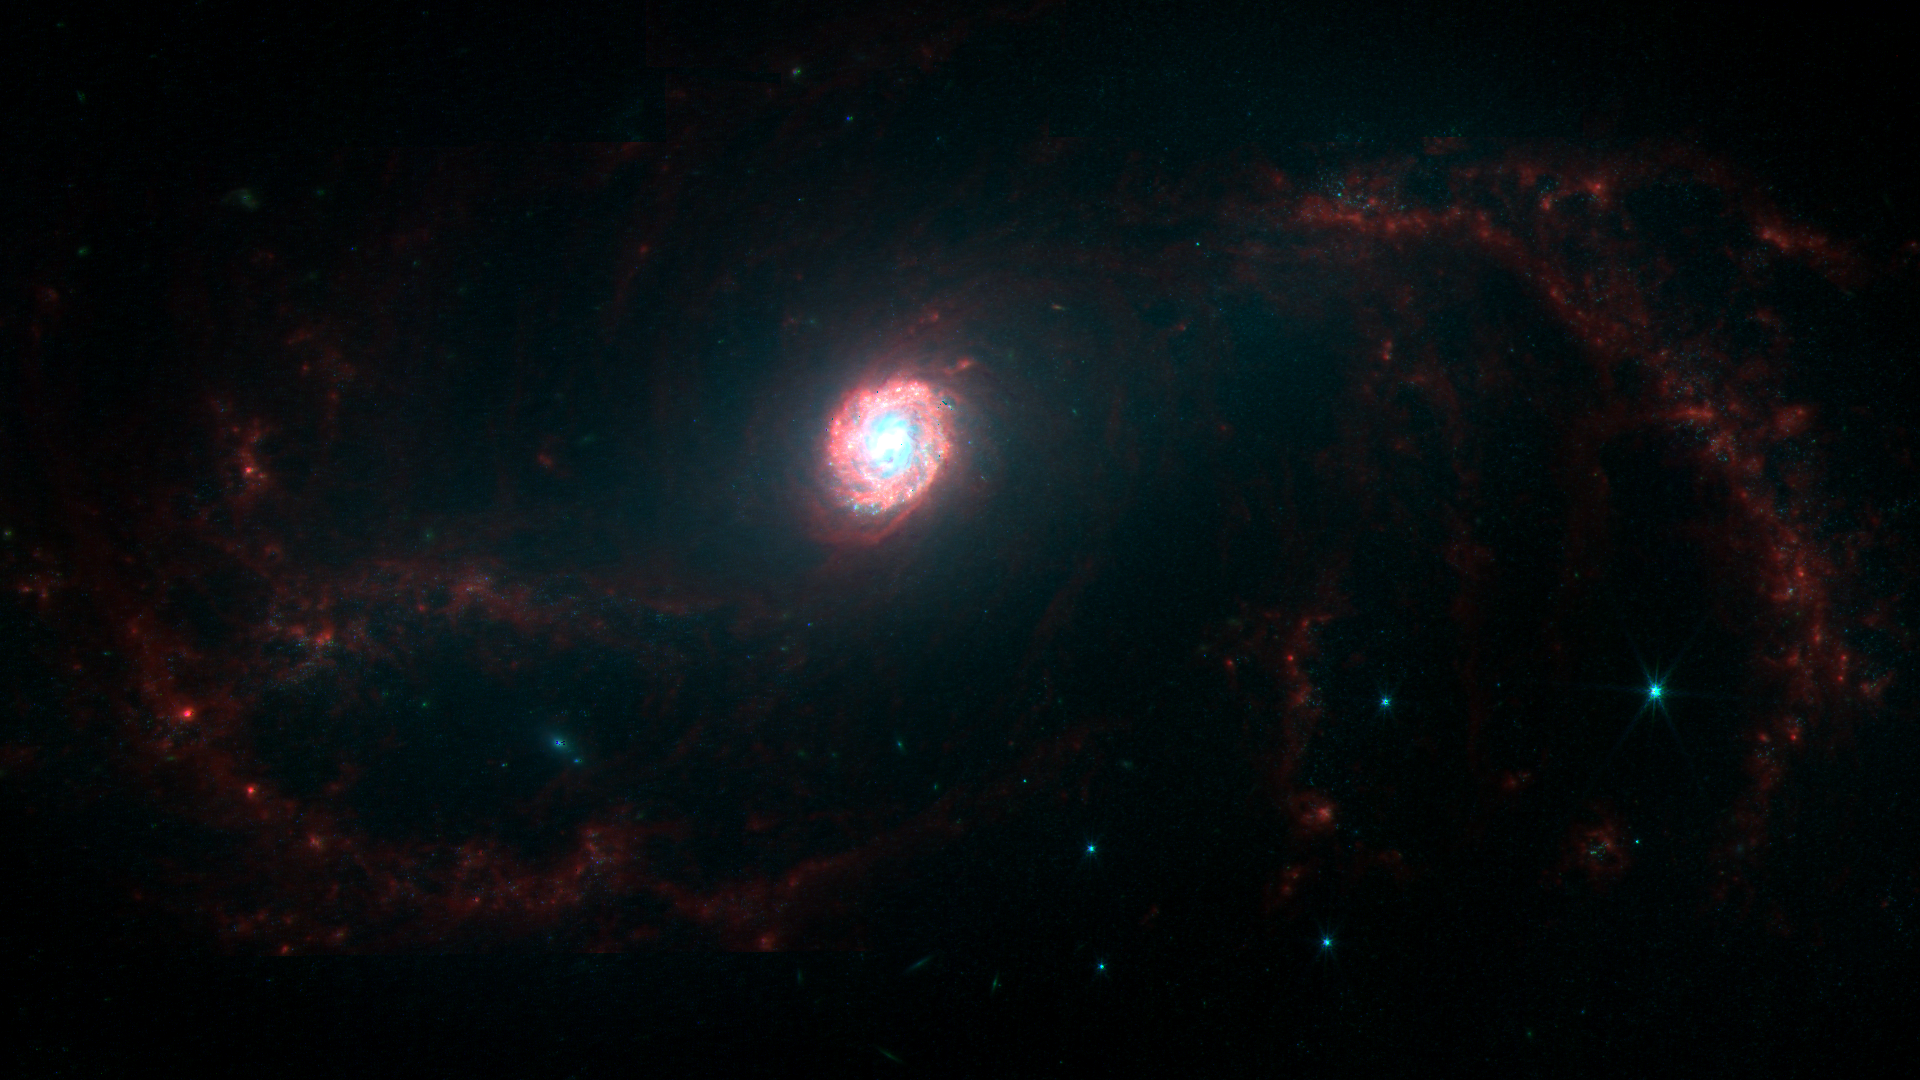
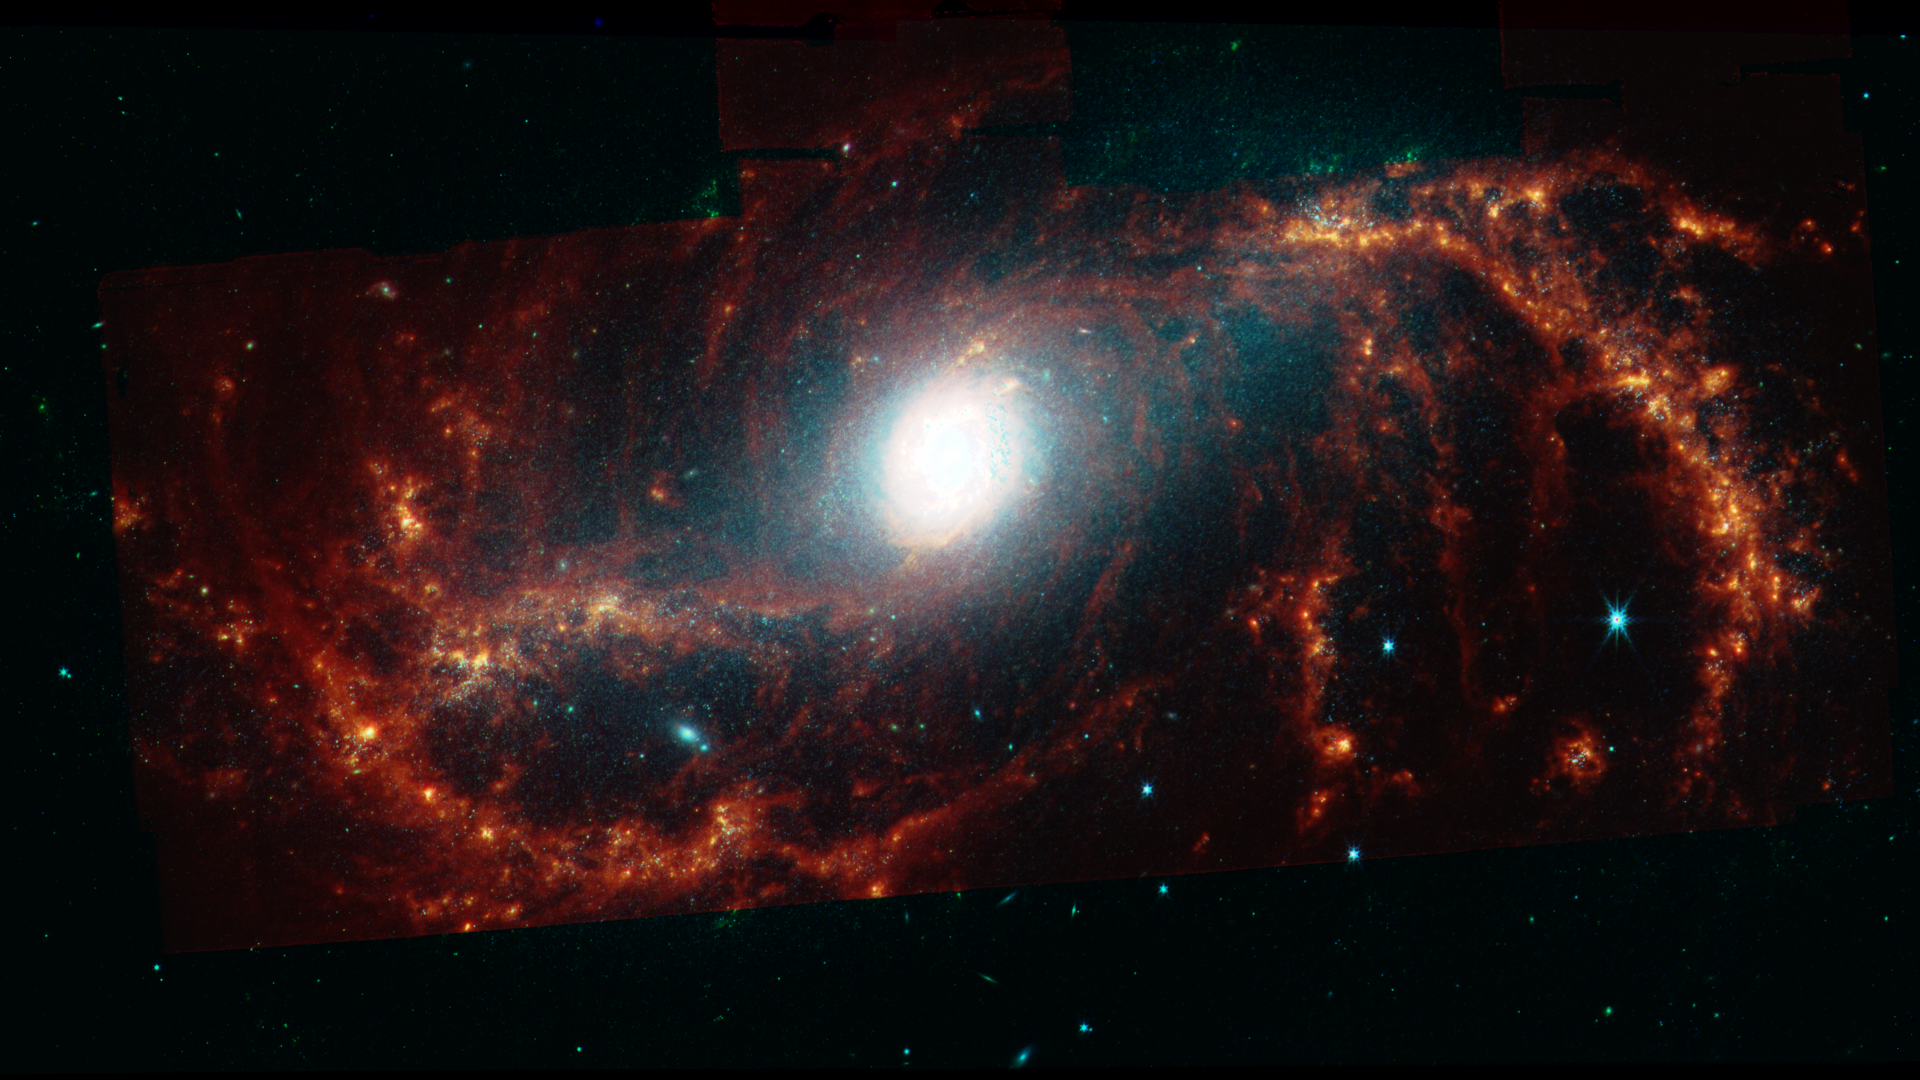
auto plot

diff --git a/astro_utils.py b/astro_utils.py
@@ -16,6 +16,9 @@ from astroquery.mast import Observations
 # from skimage.morphology import disk
 from astropy.wcs import WCS
 from astropy.nddata import Cutout2D
+from bot_grabber import level_adjust
+import pickle
+from skimage import transform
 # root = __file__[:-14]
 # root = list_files.__code__.co_filename[:-14]
 root = os.environ['HOME']+'/astro/'
@@ -471,24 +474,6 @@ def crop_fits(hdu1, center, sizes):
     return hdu1, pos, pix
 
 
-
-if __name__ == '__main__':
-    path = list_files('/home/innereye/JWST/Ori/', search='*.fits')
-    # hdu = fits.open(path[8])
-    hdu = fits.open(path[8])
-    # img = hdu[1].data[3800:5000, 5600:7000]
-    img = hdu[1].data[1800:2400, 2800:3800]
-    xy = hole_xy(img)
-    size = hole_size(img, xy, plot=True)
-    filled = hole_circle_fill(img, xy, size)
-
-    fix = fill_craters(img, method='gaus')
-    # fix = fill_holes(img, pad=1)
-    plt.figure();plt.imshow(img[200:400,100:300]);plt.show(block=False)
-    plt.figure();plt.imshow(fix[200:400,100:300]);plt.show(block=False)
-    print('tada')
-
-
 def movmean(data, win):
     #  smooth data with a moving average. win should be an odd number of samples.
     #  data is np.ndarray with samples by channels shape
@@ -514,3 +499,174 @@ def movmean(data, win):
         else:
             smooth[:, iChannel] = sm
     return smooth
+
+
+def auto_plot(folder='ngc1672', exp='*_i2d.fits', method='rrgggbb', pow=[1, 1, 1], pkl=True, png=False, resize=False,
+              core=False, factor=4):
+    # TODO: clean small holes fast without conv, remove red background
+    if not os.path.isdir(folder):
+        try:
+            os.chdir('/home/innereye/JWST/')
+            if not os.path.isdir(folder):
+                raise Exception('cannot find '+folder)
+        except:
+            raise Exception('cannot find ' + folder)
+
+    path = list_files(os.getcwd()+'/'+folder, exp)
+    filt = filt_num(path)
+    order = np.argsort(filt)
+    path = np.asarray(path)[order]
+
+    def make_rgb(prc=0):
+        rgb = np.zeros((layers.shape[0], layers.shape[1], 3), float)
+        for ll in range(3):
+            lay = np.mean(layers[:, :, iii[ll]], axis=2)
+            lay = lay ** pow[ll] * 255
+            rgb[:, :, ll] = lay
+        if prc > 0:  # subtract 1 percentile to remove red after **0.5
+            vec = rgb[:, :, 0].copy().flatten()
+            vec[vec == 0] = np.nan
+            rgb[:, :, 0] = rgb[:, :, 0] - np.nanpercentile(vec, 1)
+            rgb[rgb < 0] = 0
+            rgb[:, :, 0] = rgb[:, :, 0] / np.nanmax(rgb[:, :, 0]) * 255
+        rgb = rgb.astype('uint8')
+        return rgb
+
+    pkl_name = folder + '.pkl'
+    if os.path.isfile(pkl_name) and pkl:
+        layers = np.load(pkl_name, allow_pickle=True)
+    else:
+        for ii in range(len(path)):
+            if ii == 0:
+                hdu0 = fits.open(path[ii])
+                img = hdu0[1].data
+                if resize:# make rescale size for wallpaper 1920 x 1080
+                    rat = np.max(img.shape)/np.min(img.shape)
+                    if rat*9 > 16:
+                        h = 1080
+                        w = int(np.ceil(h*rat))
+                    else:
+                        w = 1920
+                        h = int(np.ceil(w*(1/rat)))
+                    if img.shape[0] > img.shape[1]:
+                        wh = [w, h]
+                    else:
+                        wh = [h, w]  # rotate later
+                    img = transform.resize(img, wh)
+                layers = np.zeros((img.shape[0], img.shape[1], len(path)))
+                hdr0 = hdu0[1].header
+                hdu0.close()
+            else:
+                hdu = fits.open(path[ii])
+                img, _ = reproject_interp(hdu[1], hdr0)
+                if resize:
+                    img = transform.resize(img, wh)
+            layers[:, :, ii] = img
+        if pkl:
+            with open(pkl_name, 'wb') as f:
+                pickle.dump(layers, f)
+    if core:
+        parts = 2
+        upix = np.array(layers.shape[:2])/25
+        degrade_shape = np.ceil(upix).astype('int')
+        max_xy = np.zeros((layers.shape[2], 2))
+        for lay in range(layers.shape[2]):
+            dgd = transform.resize(layers[:,:,lay], degrade_shape)
+            max_xy[lay,:] = np.unravel_index(np.nanargmax(dgd), degrade_shape)
+        max_xy = np.mean(max_xy, axis=0) * 25.5
+        max_xy = max_xy.astype(int)
+        half = int(np.min(upix)*parts)
+        layers = layers[max_xy[0] - half:max_xy[0] + half, max_xy[1] - half:max_xy[1] + half, :]
+        core_str = '_core'
+    else:
+        core_str = ''
+    for lay in range(layers.shape[2]):
+        tmp = layers[:, :, lay].copy()
+        mask = np.isnan(tmp)
+        tmp[mask] = 0
+        tmp = level_adjust(tmp, factor=factor)
+        tmp[mask] = np.nan
+        layers[:, :, lay] = tmp
+    if method == 'rrgggbb':
+        ncol = np.floor(layers.shape[-1] / 3)
+        ib = np.arange(0, ncol).astype(int)
+        ir = np.arange(layers.shape[-1] - ncol, layers.shape[-1]).astype(int)
+        ig = np.arange(ib[-1] + 1, ir[0]).astype(int)
+        iii = [ir, ig, ib]
+        rgb = make_rgb()
+        plt.figure()
+        plt.imshow(rgb)
+        plt.show()
+    elif method == 'mnn':  # Miri Nircam Nircam
+        ismiri = ['miri' in x for x in path]
+        ir = np.where(ismiri)[0]
+        inircam = np.where(~np.asarray(ismiri))[0]
+        nb = np.ceil(len(inircam)/2)
+        ib = np.arange(0, nb).astype(int)
+        ig = np.arange(ib[-1] + 1, ir[0]).astype(int)
+        iii = [ir, ig, ib]
+        rgb = make_rgb(prc=1)
+        plt.figure()
+        plt.imshow(rgb)
+        plt.show(block=False)
+    if png:
+        if type(png) == str:
+            png_name = png
+        else:
+            png_name = folder+core_str+'.png'
+        plt.imsave(png_name, rgb, origin='lower')
+if __name__ == '__main__':
+    # auto_plot('ngc3256', '*w_i2d.fits', method='mnn')
+    print('start')
+    auto_plot('ngc1512', '*_i2d.fits', png=True, pow=[0.5, 1, 1], resize=True)
+    auto_plot('ngc1672', '*_i2d.fits', png='core1.png', pow=[1, 1, 1], core=True)
+    auto_plot('ngc1672', '*_i2d.fits', png='core05.png', pow=[0.5, 1, 1], core=True)
+    auto_plot('ngc1672', '*_i2d.fits', png='red_sqrt.png', method='mnn', pow=[0.5, 1, 1], pkl=True, factor=2)
+    # auto_plot('ngc1672', '*_i2d.fits', png=False)
+    print('tada')
+
+# total = np.zeros(layers.shape[:2])
+# c = 0
+# b = []
+# for ii in range(layers.shape[-1]):  # range(layers.shape[2]):
+#     c += 1
+#     img = layers[:, :, ii]
+#     if b == []:
+#         b = img
+#     total += img
+# r = img
+# total = total / c
+#
+# rgbt = np.zeros((total.shape[1], total.shape[0], 3))
+# rgbt[..., 0] = r.T * 255
+# rgbt[..., 1] = total.T * 255  # *3-r-b
+# rgbt[..., 2] = b.T * 255
+#
+# rgbt = rgbt.astype('uint8')
+# # rgbt = rgbt[margins:-margins, margins:-margins,:]
+# plt.figure()
+# plt.imshow(rgbt)
+# plt.show()
+#
+#
+#
+# ncol = np.floor(layers.shape[-1] / 3)
+# ib = np.arange(0, ncol).astype(int)
+# ir = np.arange(layers.shape[-1] - ncol, layers.shape[-1]).astype(int)
+# ig = np.arange(ib[-1] + 1, ir[0]).astype(int)
+# iii = [ir, ig, ib]
+# rgbt = np.zeros((layers.shape[1], layers.shape[0], 3))
+# for ll in range(3):
+#     lay = np.zeros((layers.shape[0], layers.shape[1]))
+#     for mm in range(layers.shape[0]):
+#         for nn in range(layers.shape[1]):
+#             lay[mm, nn] = np.nanmean(layers[mm, nn, iii[ll]])
+#     lay = lay * 255
+#     rgbt[:, :, ll] = lay.T
+# rgbt = rgbt.astype('uint8')
+# plt.figure()
+# plt.imshow(rgbt)
+# plt.show()
+# # plt.imsave('right_finger_tot.png', np.flipud(np.fliplr(rgbt)), origin='lower')
+#
+#

diff --git a/ngc1433.py b/ngc1433.py
@@ -1,0 +1,107 @@
+from astro_utils import *
+from astro_fill_holes import *
+from bot_grabber import level_adjust
+import os
+
+#TODO: clean small holes fast without conv, remove red background
+
+os.chdir('/home/innereye/JWST/ngc1433')
+path = list_files('/home/innereye/JWST/ngc1512/', '*_i2d.fits')
+filt = filt_num(path)
+order = np.argsort(filt)
+path = np.asarray(path)[order]
+# miri
+# miri = path[4:]
+margins = 100
+# center = [770, 1000]
+# size = [int(1920*1.5), int(1080*1.5)] # a narrow image
+
+# plt.figure()
+for ii in range(len(path)):
+    if ii == 0:
+
+        hdu0 = fits.open(path[ii])
+        img = hdu0[1].data
+        layers = np.zeros((img.shape[0], img.shape[1], len(path)))
+        # coord = [2150, 4000]
+        # ref, ref_pos, ref_pix = crop_fits(orig, coord, [], [], crop=False)
+        # img = hole_conv_fill(img, n_pixels_around=None, ringsize=10, clean_below=0)
+        img = level_adjust(img)
+        hdr0 = hdu0[1].header
+        hdu0.close()
+    else:
+        hdu = fits.open(path[ii])
+        # wcs = WCS(hdu[1].header)
+        # pix = wcs.wcs_world2pix(ref_pos, 0)
+        # pix = np.round(np.asarray(pix))
+        # sz = 2 * (pix[1, :] - pix[0, :])
+        # hdu[1], _, _ = crop_fits(hdu[1], pix[1, :], sz)
+        img = hdu[1].data
+        # img = hole_conv_fill(img, n_pixels_around=None, ringsize=10, clean_below=0)
+        img = level_adjust(img)
+        hdu[1].data = img
+        img, _ = reproject_interp(hdu[1], hdr0)
+    # plt.subplot(3, 3, ii+1)
+    # plt.imshow(img)
+    layers[:, :, ii] = img
+# plt.show(block=False)
+
+total = np.zeros(layers.shape[:2])
+c = 0
+b = []
+for ii in range(layers.shape[-1]):  # range(layers.shape[2]):
+    c += 1
+    img = layers[:, :, ii]
+    if b == []:
+        b = img
+    total += img
+r = img
+total = total / c
+
+rgbt = np.zeros((total.shape[1], total.shape[0], 3))
+rgbt[..., 0] = r.T * 255
+rgbt[..., 1] = total.T * 255  # *3-r-b
+rgbt[..., 2] = b.T * 255
+
+rgbt = rgbt.astype('uint8')
+# rgbt = rgbt[margins:-margins, margins:-margins,:]
+plt.figure()
+plt.imshow(rgbt)
+plt.show()
+
+
+ncol = np.floor(layers.shape[-1] / 3)
+ib = np.arange(0,ncol).astype(int)
+ir = np.arange(layers.shape[-1]-ncol, layers.shape[-1]).astype(int)
+ig = np.arange(ib[-1]+1, ir[0]).astype(int)
+iii = [ir, ig, ib]
+rgbt = np.zeros((layers.shape[1], layers.shape[0], 3))
+for ll in range(3):
+    lay = np.zeros((layers.shape[0], layers.shape[1]))
+    for mm in range(layers.shape[0]):
+        for nn in range(layers.shape[1]):
+            lay[mm, nn] = np.nanmean(layers[mm,nn,iii[ll]])
+    lay = lay * 255
+    rgbt[:,:,ll] = lay.T
+rgbt = rgbt.astype('uint8')
+plt.figure()
+plt.imshow(rgbt)
+plt.show()
+# plt.imsave('right_finger_tot.png', np.flipud(np.fliplr(rgbt)), origin='lower')
+
+
+ncol = np.floor(layers.shape[-1] / 3)
+ib = np.arange(0,ncol).astype(int)
+ir = np.arange(layers.shape[-1]-ncol, layers.shape[-1]).astype(int)
+ig = np.arange(ib[-1]+1, ir[0]).astype(int)
+iii = [ir, ig, ib]
+rgbt = np.zeros((layers.shape[1], layers.shape[0], 3))
+for ll in range(3):
+    lay = np.mean(layers[:, :, iii[ll]], axis=2)
+    lay = lay * 255
+    rgbt[:,:,ll] = lay.T
+    print('done '+str(ll))
+rgbt = rgbt.astype('uint8')
+plt.figure()
+plt.imshow(rgbt)
+plt.show()

diff --git a/auto_examples.py b/auto_examples.py
@@ -1,0 +1,24 @@
+from astro_utils import auto_plot
+
+
+auto_plot('ngc1672', '*_i2d.fits', png=True, pow=[0.5, 1, 1], core=True)
+auto_plot('ngc1672', '*_i2d.fits', png='red_sqrt.png', method='mnn', pow=[0.5, 1, 1], pkl=True)
+
+# auto_plot('ngc3256', '*miri*w_i2d.fits')
+auto_plot('ngc1512', '*_i2d.fits',  png=True, pow=[0.75, 1, 1], resize=True)
+auto_plot('ngc1512', '*_i2d.fits',  png=True, pow=[0.5, 1, 1], core=True)
+
+auto_plot('ngc1672', '*_i2d.fits', png=False)
+
+auto_plot('NGC4321', '*miri*_i2d.fits', png=True, pow=[0.5, 1, 1], core=True)
+
+
+auto_plot('ngc3627', '*_i2d.fits', png=True, pow=[0.5, 1, 1], method='mnn', pkl=True, resize=True)
+# auto_plot('ngc3627', '*nircam*_i2d.fits', png=True, pow=[0.5, 1, 1], core=True)
+
+auto_plot('ngc1300', '*_i2d.fits', png=True, pow=[0.5, 1, 1], method='mnn', pkl=True, resize=True)
+auto_plot('ngc1300', '*_i2d.fits', png=True, pow=[0.5, 1, 1], method='mnn', pkl=True, core=True)
+
+auto_plot('ngc1566', '*_i2d.fits', png=True, pow=[0.5, 1, 1], method='mnn', pkl=True, resize=True)
+
+auto_plot('ngc1385', '*_i2d.fits', png=True, pow=[0.5, 1, 1], method='mnn', pkl=True, resize=True)

diff --git a/bot_grabber.py b/bot_grabber.py
@@ -23,7 +23,7 @@ def image_histogram_equalization(image, number_bins=10000):
     return image_equalized.reshape(image.shape)
 
 
-def level_adjust(fits_arr):
+def level_adjust(fits_arr, factor=4.0):
     hist_dat = fits_arr.flatten()
     hist_dat = hist_dat[np.nonzero(hist_dat)]
     zeros = np.abs(np.sign(fits_arr))
@@ -33,7 +33,7 @@ def level_adjust(fits_arr):
     rescaled_no_outliers = np.maximum(rescaled, np.quantile(rescaled, 0.002))
     rescaled_no_outliers = np.minimum(rescaled_no_outliers, np.quantile(rescaled_no_outliers, 1.0 - 0.002))
     img_eqd = image_histogram_equalization(rescaled_no_outliers)
-    img_eqd = (pow(img_eqd, 4.0) + pow(img_eqd, 8.0) + pow(img_eqd, 16.0)) / 3.0
+    img_eqd = (pow(img_eqd, factor) + pow(img_eqd, factor*2) + pow(img_eqd, factor*4)) / 3.0
     adjusted = expand_highs((img_eqd + to1(rescaled)) * 0.5)
     return np.clip(adjusted * zeros, 0.0, 1.0)
 

diff --git a/pics/wallpaper/wallpapers.md b/pics/wallpaper/wallpapers.md
@@ -45,8 +45,8 @@ Right-click and ***save link as***.<br>Atlernatively, Click on images to view hi
 <a href="https://github.com/yuval-harpaz/astro/raw/main/pics/wallpaper/M16_middle_finger.png" download>
   <img title="M16, Eagle Nebula, pillar tip" src="thumb/M16_middle_finger.png">
 </a>
-<a href="https://github.com/yuval-harpaz/astro/raw/main/pics/wallpaper/ngc1385_miri.png" download>
-  <img title="NGC 1385, MIRI" src="thumb/ngc1385_miri.png">
+<a href="https://github.com/yuval-harpaz/astro/raw/main/pics/wallpaper/ngc1385.png" download>
+  <img title="NGC 1385" src="thumb/ngc1385.png">
 </a>
 <a href="https://github.com/yuval-harpaz/astro/raw/main/pics/wallpaper/ngc3627.png" download>
   <img title="NGC 3627 (M66)" src="thumb/ngc3627.png">
